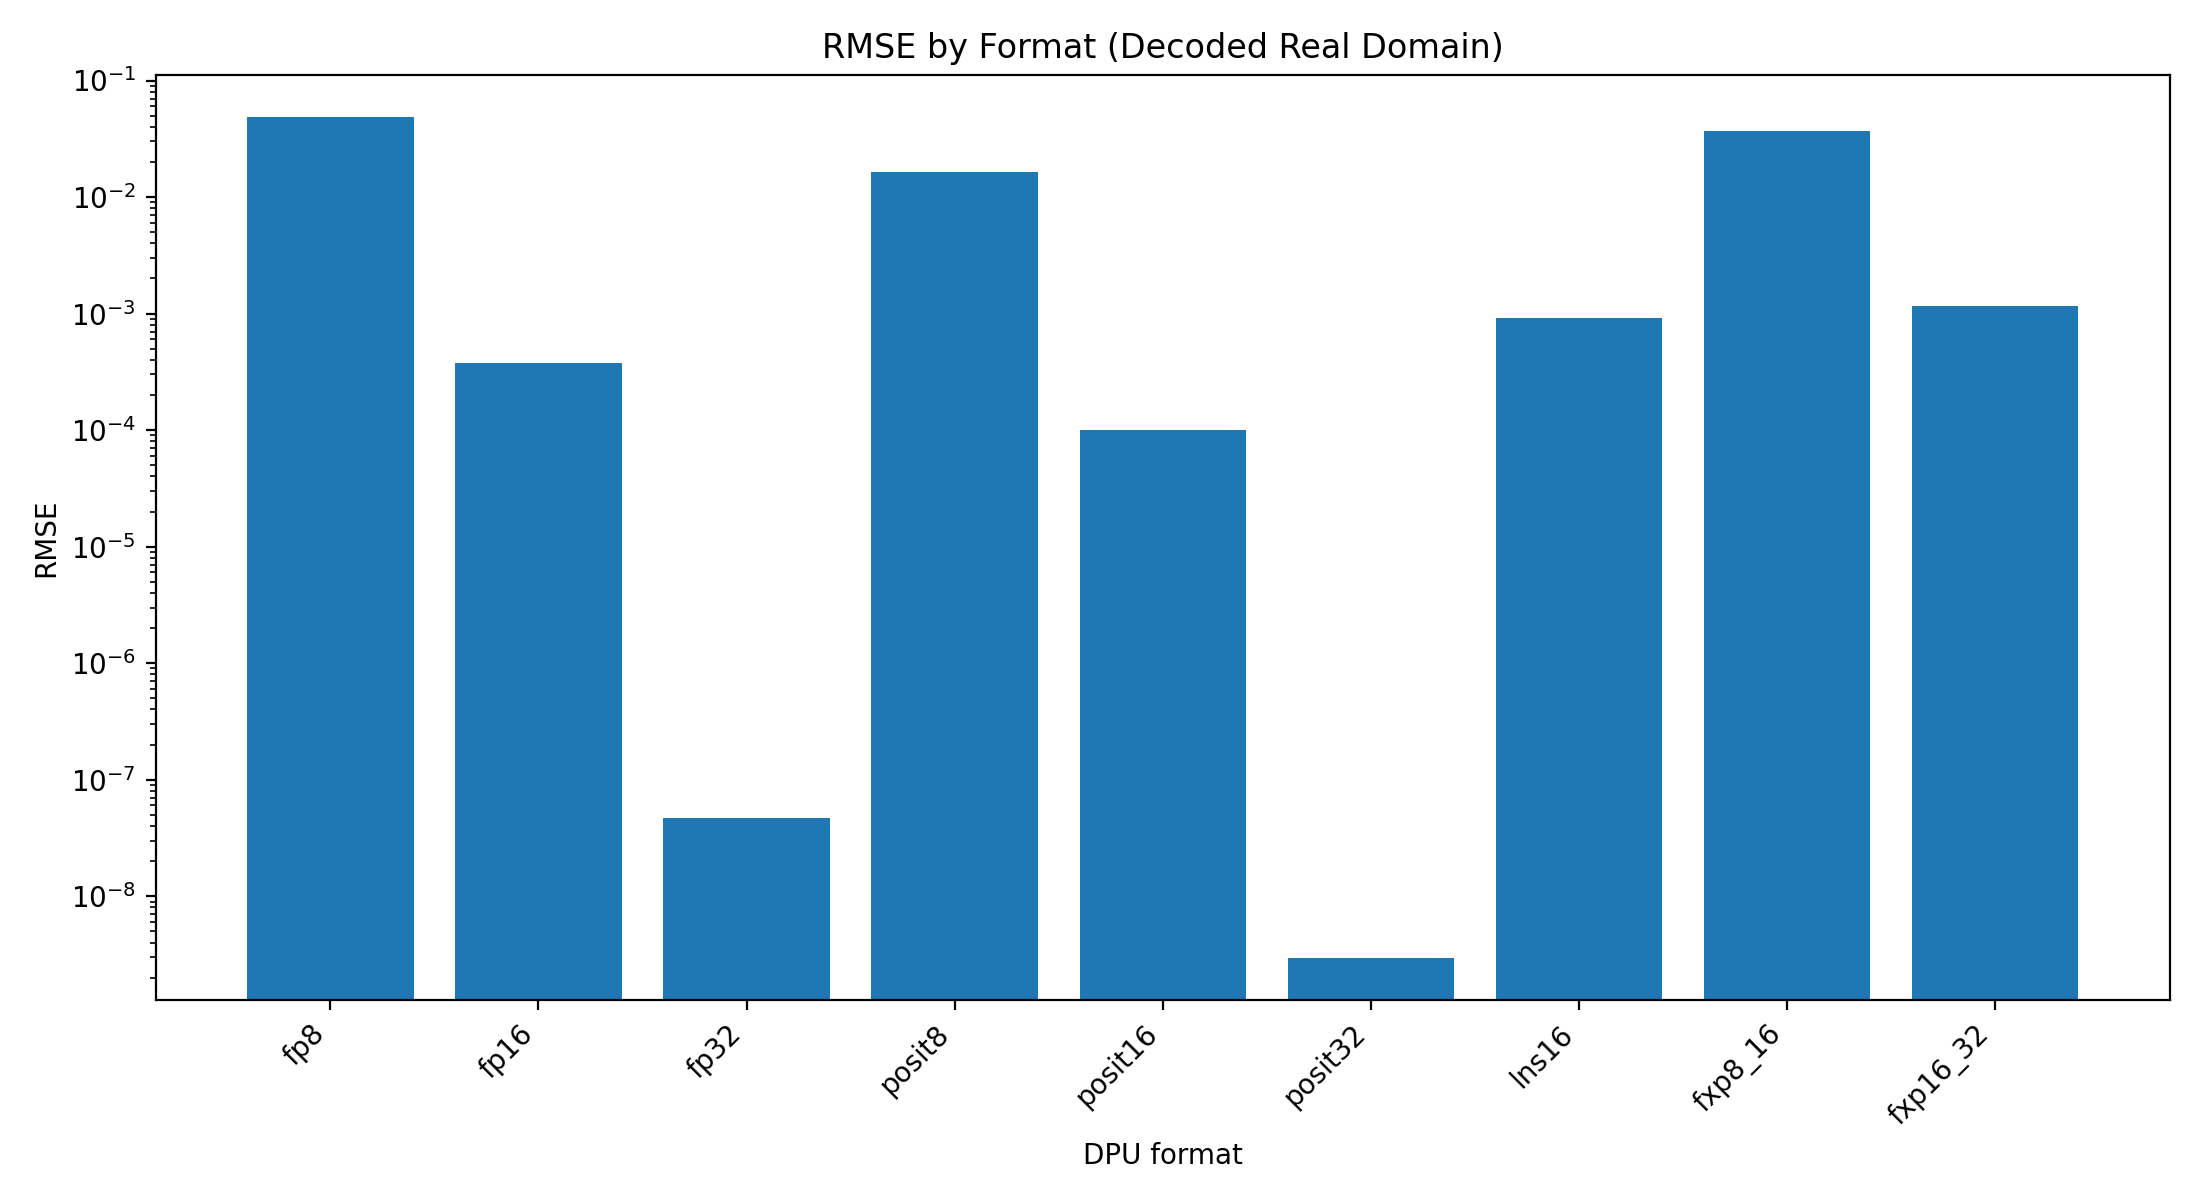
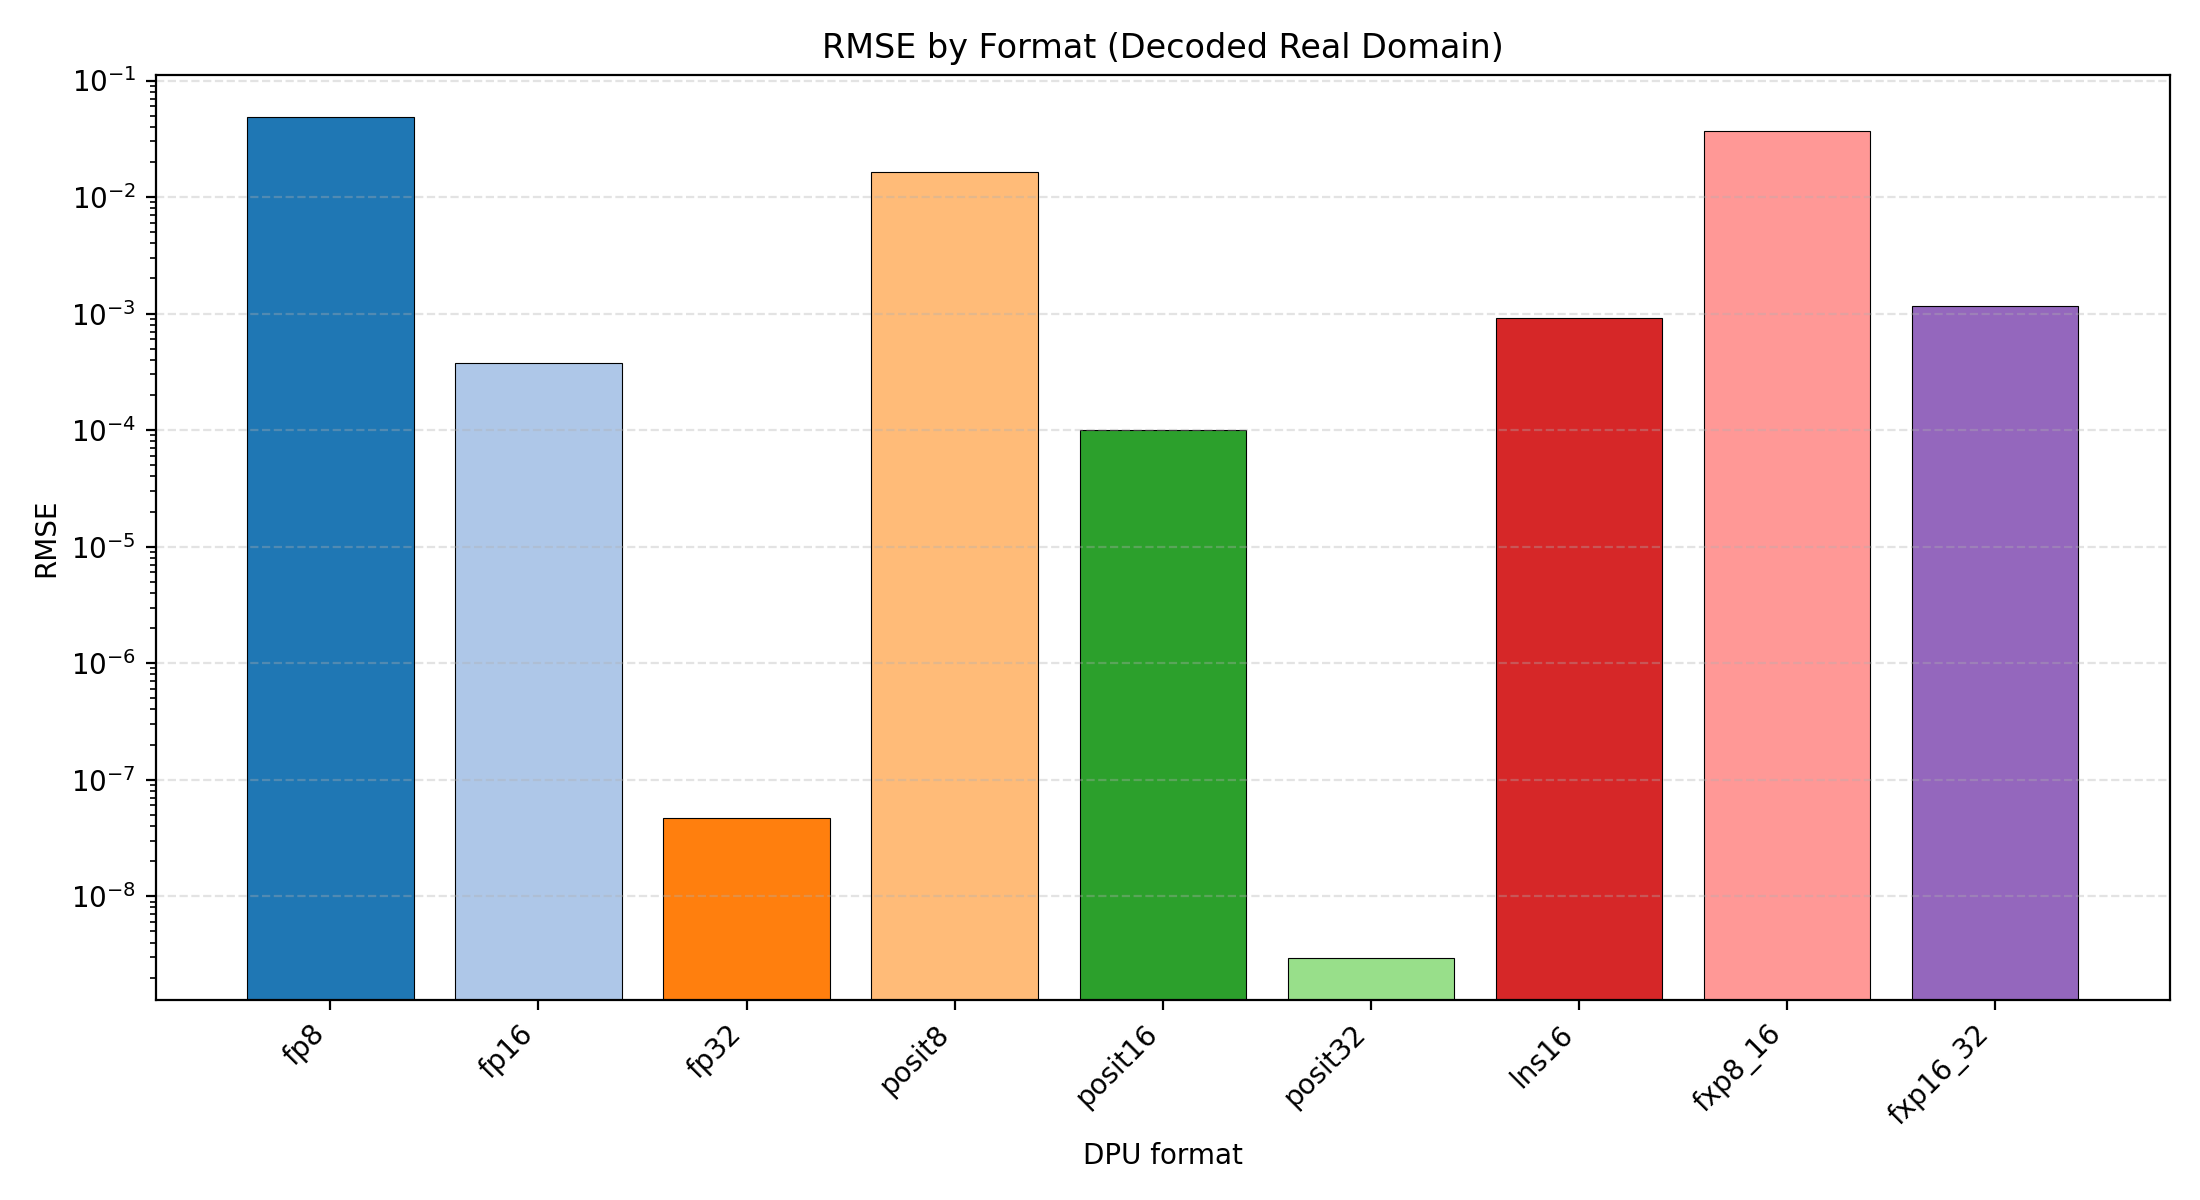
finished subsection related to DPUs accuracy results comparison for the formats

Changed region(s): [[0.1855, 0.0925, 0.9582, 0.8325]]

diff --git a/thesisWriting/Chapters/chap7results.tex b/thesisWriting/Chapters/chap7results.tex
@@ -140,7 +140,133 @@ The floating-point and posit implementations show significantly longer critical 
 
 Since these values are obtained from post-synthesis timing reports, they should be interpreted as comparative estimates rather than final placed-and-routed operating frequencies. Nevertheless, because all DPU variants were evaluated with the same synthesis setup, the results provide a useful indication of the relative timing cost of each numerical format.
 
-\section{Numerical Accuracy Evaluation}
+\section{DPU Level Numerical Accuracy Evaluation}
+
+%this section will answer how accurate is each format for the same DPU operation.
+
+%section will explain how numerical error was measured, show the results, comment on the main trends, then move to fault injection.
+
+This section shows the results which have been obtained after the validation tests for each of the implemented DPUs. To obtain so, for each DPU related to the numerical formats a test flow has been applied involving the generation of 10000 dot product unit random operations which avoid overflow, the simulation of all the tests for the singular DPU, and the confrontation between the best expected result with respect to the one obtained from simulation. The range of the operands is kept the same in between simulations of the various DPUs. In this functional verification step the focus doesnt serve to obtain a correctness study for the format, but also to obtain the quantitative comparison of numerical behavior across the formats of each DPU. 
+
+Like explained in the background chapter of this work, the operation done by each of the DPUs is the following one: \begin{equation}
+R = A_0B_0 + A_1B_1 + A_2B_2 + A_3B_3 + C_0
+\end{equation} Furthermore the tested 10000  vectors contain values which are the typical ones found in DNN random vectors. The vectors were generated using the same flow described in the DPU error-analysis scripts in chapter 2. 
+
+Regarding the reference result values for each of the tests for each of the formats, they rapresent the ideal full-precision real result calculated by the same Python script which also calculated the random test vectors for the testbench. Basically, for each format a Python script computes the full-precision reference test, then each of the generated operands are quantized into the target format. Then, the VHDL DPU computes the encoded result through simulation and that output is decoded back into a real value (always by means of a Python script) in order for the comparison to the expected result to be done. Finally for each format DPU, by means of comparison Python script, the decoded DPU result obtained in simulation is compared against the full-precision reference whose output is to be used for obtaining the error related metrics of the DPUs. 
+
+Like the results related to the hardware area and timing alysis explained in the previous sections of this chapter, the results obtained forming the numerical accuracy evaluation of each DPU regard various related metrics which involve the following, always obtained for each of the format related DPUs: 
+\begin{itemize}
+    \item Number of tests: total number of input vectors used for the
+    evaluation. In this experiment, each format was evaluated using 10,000 DNN-like random test vectors.
+
+    \item Exact-match percentage: percentage of test cases for which
+    the decoded DPU output exactly matches the corresponding reference result. This metric is especially meaningful for integer-domain formats related DPU, where a
+    100\% exact match indicates that the expected integer arithmetic was reproduced for all tested vectors.
+
+    \item Mean absolute error: average absolute difference between
+    the reference result and the decoded hardware result. This metric provides a general indication of the average numerical deviation introduced by the format and by the DPU arithmetic.
+
+    \item Maximum absolute error: largest absolute difference observed over the full set of test vectors. This metric highlights the worst-case deviation found during the experiment.
+
+    \item Root mean square error (RMSE): quadratic error metric that gives
+    more weight to larger deviations. It is useful to compare the overall numerical behavior of the different real-valued formats.
+
+\end{itemize}
+
+For the real-valued formats, the absolute error, relative error, and RMSE are expressed in decoded real-value units. For the integer-domain formats, the corresponding error metrics are expressed in integer counts. For this reason, the integer-domain results are used mainly to verify arithmetic correctness and should not be interpreted in the same way as the real-valued error results.
+
+After the Vivado simulation for each of the DPUs for each of the numerical formats, the related accuracy related errors have been collected in Table~\ref{tab:dpu_numerical_accuracy}. The values of the metrics reported in the table are the ones corresponding to operands which are in the range -1 to 1 for all the formats which rapresent values in the Real domain. This is done to omit overflow and hence compare the accuracy of each particular DPU more precisly with one another.
+
+\begin{table}[htbp]
+    \centering
+    \caption{Numerical accuracy summary of the evaluated DPU formats over the 10,000-vector dataset.}
+    \label{tab:dpu_numerical_accuracy}
+    \resizebox{\textwidth}{!}{%
+    \begin{tabular}{llrrrrr}
+        \hline
+        \textbf{Format} &
+        \textbf{Domain} &
+        \textbf{Tests} &
+        \textbf{Exact Match (\%)} &
+        \textbf{Mean Abs. Error} &
+        \textbf{Max Abs. Error} &
+        \textbf{RMSE} \\
+        \hline
+        FP8        & Real    & 10000 & 46.28  & $3.6041\times 10^{-2}$ & $2.9828\times 10^{-1}$ & $4.8862\times 10^{-2}$ \\
+        FP16       & Real    & 10000 & 47.01  & $2.7819\times 10^{-4}$ & $2.1129\times 10^{-3}$ & $3.7684\times 10^{-4}$ \\
+        FP32       & Real    & 10000 & 45.56  & $3.4729\times 10^{-8}$ & $3.1402\times 10^{-7}$ & $4.6940\times 10^{-8}$ \\
+        Posit8     & Real    & 10000 & 47.19  & $1.2571\times 10^{-2}$ & $1.0713\times 10^{-1}$ & $1.6471\times 10^{-2}$ \\
+        Posit16    & Real    & 10000 & 46.35  & $7.5454\times 10^{-5}$ & $5.5333\times 10^{-4}$ & $9.9462\times 10^{-5}$ \\
+        Posit32    & Real    & 10000 & 46.75  & $2.1869\times 10^{-9}$ & $1.5591\times 10^{-8}$ & $2.9281\times 10^{-9}$ \\
+        LNS16      & Real    & 10000 & 44.80  & $6.2281\times 10^{-4}$ & $9.7344\times 10^{-3}$ & $9.1803\times 10^{-4}$ \\
+        FXP8/16    & Real    & 10000 & 46.61  & $2.9373\times 10^{-2}$ & $1.4762\times 10^{-1}$ & $3.6724\times 10^{-2}$ \\
+        FXP16/32   & Real    & 10000 & 45.23  & $9.2744\times 10^{-4}$ & $3.9218\times 10^{-3}$ & $1.1543\times 10^{-3}$ \\
+        INT8/16    & Integer & 10000 & 100.00 & $0$                    & $0$                    & $0$ \\
+        INT16/32   & Integer & 10000 & 100.00 & $0$                    & $0$                    & $0$ \\
+        \hline
+    \end{tabular}
+    }
+\end{table}
+
+Observing the Table, it can be remarked that the results yields that 32-bit real-valued formats produce the lowest error. Specifically, the Posit32 format has the lowest mean absolute and RMSE among all the formats in the dataset. FP32 DPU is the next best solution with errors in the range of the nano scale magnitude. Regarding the operands with width of 16 bits, the DPU supporting the Posit16 format shows lower mean absolute error as well as lower RMSE with respect to the standard FP16, LNS16, and Fixed Point 16 counterparts. Regarding the DPUs treating with formats of the smallest width, FP8 and Posit8 DPUs show the largest errors as expected due to their reduced bit-width size. Also Obeserving the table it can be observed that the lower are the amounts of bits used for the result of the format the higher is the exact match percentage case however by just a small percentage case of variation. The error related metrics have also been plotted for all the 10000 tests into different seperate plots which portray the expected resulting value of each of the singular 10000 test versus the absolute error calculated from the simulated result of the DPU. These plots were usefull to understand the presence of outliers and other phenomenons and were also useful to compare the different DPU's obtained errors according on the format. For example,the Figure~\ref{fig:dpu_error_plots_grid} shows the plots reported for the confronting the errors of the 10000 tests of the Floating Point format DPUs against the Posit related DPUs, and it can be observed also through these plots the difference in the magnitude of the error, where the Posit related DPUs result in a lower error with respect to the Floating Point ones. 
+
+\begin{figure}[t]
+    \centering
+
+    %first row
+    \begin{minipage}{0.48\textwidth}
+        \centering
+        \includegraphics[width=\textwidth]{figures/fp8_error_vs_reference.png}
+    \end{minipage}
+    \hfill
+    \begin{minipage}{0.48\textwidth}
+        \centering
+        \includegraphics[width=\textwidth]{figures/posit8_error_vs_reference.png}
+    \end{minipage}
+
+    \vspace{0.4cm}
+
+    % Second row
+    \begin{minipage}{0.48\textwidth}
+        \centering
+        \includegraphics[width=\textwidth]{figures/fp16_error_vs_reference.png}
+    \end{minipage}
+    \hfill
+    \begin{minipage}{0.48\textwidth}
+        \centering
+        \includegraphics[width=\textwidth]{figures/posit16_error_vs_reference.png}
+    \end{minipage}
+
+    \vspace{0.4cm}
+
+    % Third row
+    \begin{minipage}{0.48\textwidth}
+        \centering
+        \includegraphics[width=\textwidth]{figures/fp32_error_vs_reference.png}
+    \end{minipage}
+    \hfill
+    \begin{minipage}{0.48\textwidth}
+        \centering
+        \includegraphics[width=\textwidth]{figures/posit32_error_vs_reference.png}
+    \end{minipage}
+
+    \caption{Comparison of absolute error metric versus the expected result for the Posit DPUs versus Floating Point DPUs.}
+    \label{fig:dpu_error_metrics_comparison}
+\end{figure}
+
+Discussing more related to the numerical accuracy results just provided in this section, the posit formats over all show lower mean absolute error and RMSE than the
+corresponding floating-point formats in this experiment. This behavior can be related to the tapered-precision property of posit arithmetic, which allocates precision differently from conventional floating-point formats and can be particularly effective for values concentrated around a limited numerical range. But as a tradeoff of this when the range of the operand increases however, the behavior of the absolute area of the posit format will get closer to the numerical format of Floating Point. Regarding the other emerging format of LNS16,  even if the multiplications part of the dot product operation are convenient in LNS format, the DPU still needs several additions/accumulations part of the operation. And as a result of this, this is where the LNS16 related error metrics increase with respect to the floating point and posit related formats shown in the previously introduced table. In general,  this explains why LNS16 format is less accurate than FP16 and Posit16 in this experiment, while still remaining more accurate than the evaluated 8-bit formats due to the presence of more precision bits in that case. Lastly, for motivating the numerical format of fixed point, it can be remarked that Since fixed-point arithmetic uses a uniform quantization step, it cannot adapt its precision to the magnitude of the represented values as floating-point or posit formats do. As expected, FXP16 significantly reduces the error with respect to FXP8 due to the larger input and output precision. However, in this dataset, FXP16 remains less accurate than FP16 and Posit16, suggesting that the selected fixed-point scaling provides a simpler but less flexible approximation of the real-valued dot product.
+
+Lastly for closing the subsection there is included Figure~\ref{fig:real_mean_abs_error_by_format} which provides a graphical view of the mean absolute error reported in Table~\ref{tab:dpu_numerical_accuracy} for the decoded-real-domain formats. A logarithmic scale is used on the vertical axis because the error values span several orders of magnitude depending on the format tested for accuracy. This makes it possible to compare low-precision and high-precision formats in the same plot without hiding the smaller error values and a better general visualization of the discussion related to the accuracy for each format discussed in this section.
+
+\begin{figure}[htbp]
+    \centering
+    \includegraphics[width=0.90\textwidth]{figures/real_mean_abs_error_by_format.png}
+    \caption{Mean absolute error of the decoded-real-domain DPU formats.}
+    \label{fig:real_mean_abs_error_by_format}
+\end{figure}
+
+\newpage 
 
 \section{Fault-Injection Methodology}
 

diff --git a/DPU_Error_Analysis/scripts/plot_global_error_summary.py b/DPU_Error_Analysis/scripts/plot_global_error_summary.py
@@ -9,11 +9,6 @@ Outputs:
   DPU_Error_Analysis/plots/dnn_random_10k/final/real_mean_abs_error_by_format.png
   DPU_Error_Analysis/plots/dnn_random_10k/final/real_rmse_by_format.png
   DPU_Error_Analysis/plots/dnn_random_10k/final/exact_match_percent_by_format.png
-
-Notes:
-  - Mean absolute error and RMSE plots include only decoded-real-domain formats.
-  - Integer formats are excluded from real-error plots because their error unit is integer counts.
-  - Exact-match percentage is plotted for all formats.
 """
 
 import csv
@@ -27,6 +22,29 @@ SUMMARY_PATH = BASE_DIR / "reports" / "dnn_random_10k" / "dpu_error_summary_all_
 OUTPUT_DIR = BASE_DIR / "plots" / "dnn_random_10k" / "final"
 
 
+FORMAT_ORDER = [
+    "fp8",
+    "fp16",
+    "fp32",
+    "posit8",
+    "posit16",
+    "posit32",
+    "lns16",
+    "fxp8_16",
+    "fxp16_32",
+    "int8_16",
+    "int16_32",
+]
+
+# Assign one stable color to each format.
+# tab20 gives enough visually distinct colors for this number of formats.
+COLOR_MAP = plt.get_cmap("tab20")
+FORMAT_COLORS = {
+    fmt: COLOR_MAP(i)
+    for i, fmt in enumerate(FORMAT_ORDER)
+}
+
+
 def read_rows():
     with SUMMARY_PATH.open("r", encoding="utf-8") as f:
         return list(csv.DictReader(f))
@@ -37,8 +55,21 @@ def to_float(value: str) -> float:
 
 
 def save_bar_plot(formats, values, title, ylabel, output_path, log_y=False):
+    colors = [
+        FORMAT_COLORS.get(fmt, "gray")
+        for fmt in formats
+    ]
+
     plt.figure(figsize=(11, 6))
-    plt.bar(formats, values)
+
+    plt.bar(
+        formats,
+        values,
+        color=colors,
+        edgecolor="black",
+        linewidth=0.4,
+    )
+
     plt.title(title)
     plt.ylabel(ylabel)
     plt.xlabel("DPU format")
@@ -49,6 +80,8 @@ def save_bar_plot(formats, values, title, ylabel, output_path, log_y=False):
         if positive_values:
             plt.yscale("log")
 
+    plt.grid(axis="y", linestyle="--", alpha=0.35)
+
     plt.tight_layout()
     plt.savefig(output_path, dpi=200)
     plt.close()
@@ -58,14 +91,26 @@ def main():
     OUTPUT_DIR.mkdir(parents=True, exist_ok=True)
 
     rows = read_rows()
-    real_rows = [r for r in rows if r["metric_domain"] == "decoded_real_domain"]
+    real_rows = [
+        r for r in rows
+        if r["metric_domain"] == "decoded_real_domain"
+    ]
 
     real_formats = [r["format"] for r in real_rows]
-    real_mean_abs = [to_float(r["mean_abs_error"]) for r in real_rows]
-    real_rmse = [to_float(r["rmse"]) for r in real_rows]
+    real_mean_abs = [
+        to_float(r["mean_abs_error"])
+        for r in real_rows
+    ]
+    real_rmse = [
+        to_float(r["rmse"])
+        for r in real_rows
+    ]
 
     all_formats = [r["format"] for r in rows]
-    exact_match = [to_float(r["exact_match_percent"]) for r in rows]
+    exact_match = [
+        to_float(r["exact_match_percent"])
+        for r in rows
+    ]
 
     save_bar_plot(
         real_formats,
